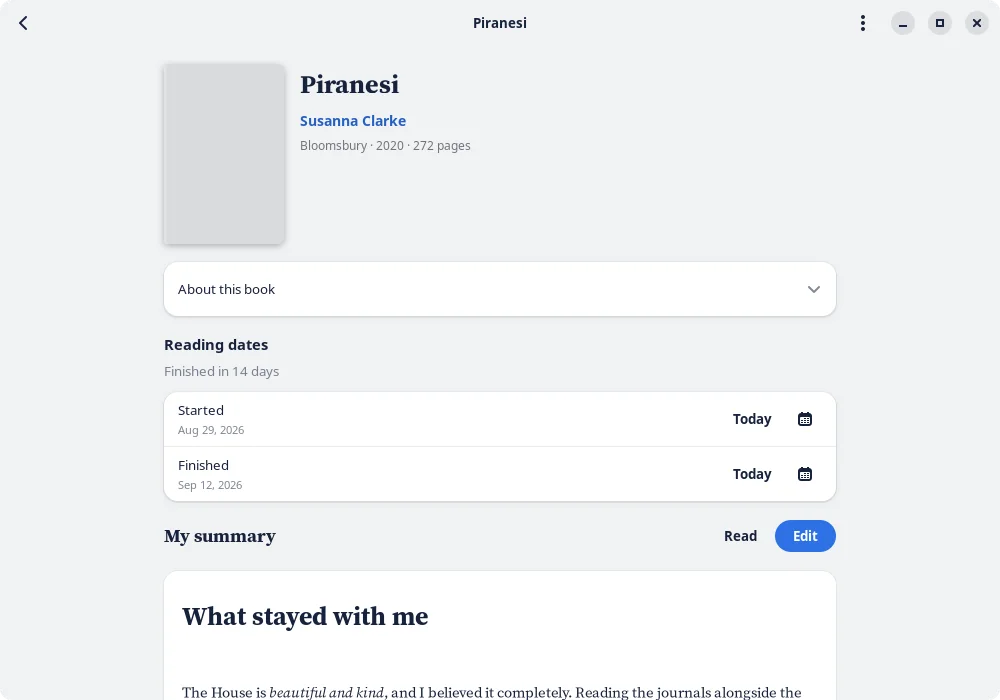
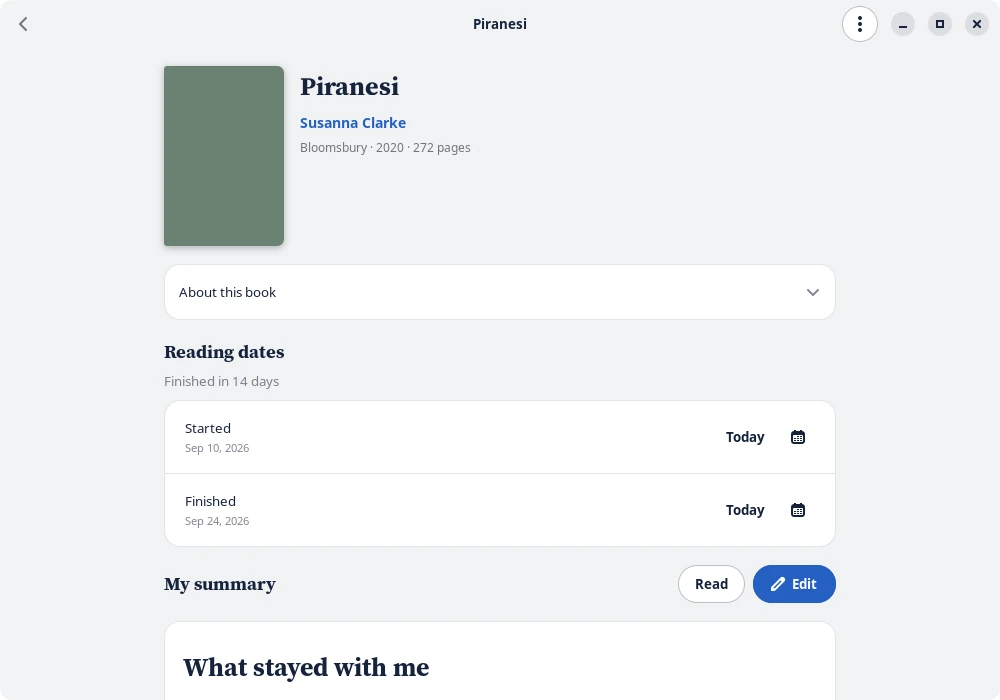
README and website: the new design, with new screenshots
All three apps now share the Linux layout and look, so the site and
README describe one design: the header with back, add, the three shelf
tabs, search and Settings; each shelf as a grid of book cards; and the
"Who's reading?" page. The per-system notes now say what stays native:
GNOME's window controls, the Windows title bar and keys, and the Mac's
menu bar, shortcuts and Settings window (Cmd-,). Nothing mentions a
sidebar or a left pane any more.

Features gain covers in search (and the edition that matched), lists
that keep going (Enter, Tab and Shift+Tab), room around the line you're
writing, and one design everywhere.

The twelve screenshots are new, as rounded-corner WebPs:
- Mac (CI run 38644768360): the Finished shelf, a book's page (dark),
  the writer and the reader (dark). The shelf is also the hero image.
- Windows (CI run 38644763954): the Finished shelf, adding a book with
  covers in the results, the writer (dark), and the reader in full
  screen. Its book page and windowed reader had stray focus rings, so
  windows-book.webp is replaced by windows-search.webp.
- Linux (shots.rs, on broadway): the Finished shelf (dark), a book's
  page, the writer and the reader (dark).

The install sections and the "0.9 is nearly here" note are unchanged.

diff --git a/site/index.html b/site/index.html
@@ -54,8 +54,8 @@
         <p class="small">Free and open source · No account, no ads, no tracking</p>
       </div>
       <figure class="hero-shot">
-        <img src="screenshots/mac-book.webp" width="1000" height="678"
-             alt="Bookshelf on a Mac: the Finished shelf on the left, with Piranesi selected, and its page on the right showing the cover, the reading dates and the start of the summary.">
+        <img src="screenshots/mac-shelf.webp" width="1000" height="681"
+             alt="Bookshelf on a Mac: the Finished shelf, with Reading, Finished and Eventually as tabs at the top, and the books finished in 2026 as a row of three cards, each with its cover, title, author, the date it was finished and the first lines of the summary.">
       </figure>
     </div>
     <div class="wrap">
@@ -68,21 +68,21 @@
   <!-- ===================================================== screenshots -->
   <section class="band" id="screenshots" aria-labelledby="screenshots-title">
     <div class="wrap">
-      <h2 id="screenshots-title">At home on your computer</h2>
-      <p class="intro">Bookshelf is a native app on each system, so it looks and feels like it belongs there. The shelves, the writing and the reading are the same everywhere. These screenshots use a made-up reader’s journal.</p>
+      <h2 id="screenshots-title">The same on every computer</h2>
+      <p class="intro">Bookshelf has one design on Linux, Windows and Mac: the same shelves of book cards, the same writer and the same reader. Underneath, each app is still native to its system, with the window controls, menus and keys you’re used to there. These screenshots use a made-up reader’s journal.</p>
 
       <div class="os" id="linux">
         <h3>Linux</h3>
-        <p class="os-note">Made with GTK&nbsp;4 and libadwaita, so it fits right in on GNOME.</p>
+        <p class="os-note">Made with GTK&nbsp;4 and libadwaita, with GNOME’s own window controls.</p>
         <div class="shots">
           <figure>
             <img src="screenshots/linux-shelf.webp" width="1000" height="700" loading="lazy" decoding="async"
-                 alt="Bookshelf on Linux in dark mode, showing the Finished shelf: books grouped under 2026, each with its author, the date it was finished, how many days it took, and the first lines of the summary.">
+                 alt="Bookshelf on Linux in dark mode, showing the Finished shelf: A Wizard of Earthsea, Piranesi and The Remains of the Day as three cards under 2026, each with its cover, author, the date it was finished, how many days it took, and the first lines of the summary.">
             <figcaption>The Finished shelf, grouped by year (dark mode)</figcaption>
           </figure>
           <figure>
             <img src="screenshots/linux-book.webp" width="1000" height="700" loading="lazy" decoding="async"
-                 alt="The page for Piranesi by Susanna Clarke on Linux: publisher, year and page count, a folded ‘About this book’ section, the started and finished dates with Today and calendar buttons, and the start of the summary.">
+                 alt="The page for Piranesi by Susanna Clarke on Linux: the cover, publisher, year and page count, a folded ‘About this book’ panel, the started and finished dates with Today and calendar buttons, and Read and Edit buttons above the summary.">
             <figcaption>A book’s page: details, reading dates and your summary</figcaption>
           </figure>
           <figure>
@@ -100,52 +100,52 @@
 
       <div class="os" id="windows">
         <h3>Windows</h3>
-        <p class="os-note">Made with WinUI&nbsp;3, like Windows&nbsp;11’s own apps. Works on Windows&nbsp;10 too.</p>
+        <p class="os-note">Made with WinUI&nbsp;3, with the Windows title bar and keyboard shortcuts. Works on Windows&nbsp;10 and&nbsp;11.</p>
         <div class="shots">
           <figure>
             <img src="screenshots/windows-shelf.webp" width="1030" height="781" loading="lazy" decoding="async"
-                 alt="Bookshelf on Windows showing the Finished shelf: a left pane with Reading, Finished and Eventually and how many books each holds, and books grouped by year with their dates and the first lines of each summary.">
-            <figcaption>The Finished shelf, with the shelves in the left pane</figcaption>
+                 alt="Bookshelf on Windows showing the Finished shelf: back and add buttons, the three shelf tabs, and search and Settings buttons along the top, then Dune and A Wizard of Earthsea as cards under 2026, with their dates and the first lines of each summary.">
+            <figcaption>The Finished shelf, with the shelf tabs, search and Settings at the top</figcaption>
           </figure>
           <figure>
-            <img src="screenshots/windows-book.webp" width="1030" height="781" loading="lazy" decoding="async"
-                 alt="The page for Dune by Frank Herbert on Windows: Edit and Read buttons, an ‘About this book’ section, the reading dates with calendars and Today buttons, and the summary below.">
-            <figcaption>A book’s page, with Edit and Read close at hand</figcaption>
+            <img src="screenshots/windows-search.webp" width="1030" height="781" loading="lazy" decoding="async"
+                 alt="Adding a book on Windows: a search for ‘le guin’ lists four books, each with a small cover beside it, its author and year. The Dispossessed also shows its subtitle, An Ambiguous Utopia.">
+            <figcaption>Adding a book: a cover beside each result, and subtitles too</figcaption>
           </figure>
           <figure>
             <img src="screenshots/windows-writer.webp" width="1030" height="781" loading="lazy" decoding="async"
-                 alt="The writing page on Windows in dark mode: a formatting bar with bold, italic, heading, quote, list and link buttons, above notes on To the Lighthouse with headings, a bulleted list and a quote.">
+                 alt="The writing page on Windows in dark mode: a formatting bar with bold, italic, heading, quote, list and link buttons, above notes on To the Lighthouse with headings, a bulleted list and a quote. The word count and ‘Saved’ sit at the bottom.">
             <figcaption>The writer, in dark mode</figcaption>
           </figure>
           <figure>
-            <img src="screenshots/windows-reader.webp" width="1030" height="781" loading="lazy" decoding="async"
-                 alt="The reading page on Windows: the summary of Dune set in a serif font, with a heading, a bulleted list and paragraphs.">
-            <figcaption>The reader, ready for full screen</figcaption>
+            <img src="screenshots/windows-reader.webp" width="1024" height="768" loading="lazy" decoding="async"
+                 alt="The reading page on Windows in full screen: the summary of Dune set in a serif font, with a heading, a bulleted list and paragraphs, and a note at the bottom saying how to leave full screen.">
+            <figcaption>The reader, in full screen</figcaption>
           </figure>
         </div>
       </div>
 
       <div class="os" id="mac">
         <h3>Mac</h3>
-        <p class="os-note">Made with SwiftUI, with the sidebar, menus and keyboard shortcuts you’d expect on a&nbsp;Mac.</p>
+        <p class="os-note">Made with SwiftUI, with the menu bar, keyboard shortcuts and Settings window (<kbd>⌘,</kbd>) you’d expect on a&nbsp;Mac.</p>
         <div class="shots">
           <figure>
-            <img src="screenshots/mac-shelf.webp" width="1000" height="675" loading="lazy" decoding="async"
-                 alt="Bookshelf on a Mac in dark mode: the sidebar with three shelves, and the Reading shelf with Middlemarch on day 4 and The Left Hand of Darkness on day 13.">
-            <figcaption>The Reading shelf, counting the days (dark mode)</figcaption>
+            <img src="screenshots/mac-shelf.webp" width="1000" height="681" loading="lazy" decoding="async"
+                 alt="Bookshelf on a Mac: the Finished shelf, with A Wizard of Earthsea, Piranesi and The Remains of the Day as a row of three cards under 2026, and two more under 2025, centred below.">
+            <figcaption>The Finished shelf: three to a row, with a short row centred</figcaption>
           </figure>
           <figure>
-            <img src="screenshots/mac-book.webp" width="1000" height="678" loading="lazy" decoding="async"
-                 alt="Bookshelf on a Mac: the Finished shelf with Piranesi selected, and its page beside it with the cover, the reading dates and the start of the summary.">
-            <figcaption>Your shelf and a book’s page, side by side</figcaption>
+            <img src="screenshots/mac-book.webp" width="1000" height="684" loading="lazy" decoding="async"
+                 alt="The page for Piranesi on a Mac in dark mode: the cover, publisher, year and page count, a folded ‘About this book’ panel, the reading dates with Today buttons, and Read and Edit buttons above the start of the summary.">
+            <figcaption>A book’s page, with Read and Edit close at hand (dark mode)</figcaption>
           </figure>
           <figure>
-            <img src="screenshots/mac-writer.webp" width="1000" height="678" loading="lazy" decoding="async"
-                 alt="The writing page on a Mac: a toolbar of formatting buttons above Markdown text with a heading, italic and bold words, and a numbered list.">
+            <img src="screenshots/mac-writer.webp" width="1000" height="681" loading="lazy" decoding="async"
+                 alt="The writing page on a Mac: a toolbar of formatting buttons above Markdown text with a heading, italic and bold words, and a numbered list. The word count and ‘Saved’ sit at the bottom.">
             <figcaption>The writer, with formatting in the toolbar and the menus</figcaption>
           </figure>
           <figure>
-            <img src="screenshots/mac-reader.webp" width="1000" height="675" loading="lazy" decoding="async"
+            <img src="screenshots/mac-reader.webp" width="1000" height="684" loading="lazy" decoding="async"
                  alt="The reading page on a Mac in dark mode: the summary of Piranesi with headings, a numbered list and a dividing line.">
             <figcaption>The reader (dark mode)</figcaption>
           </figure>
@@ -159,18 +159,21 @@
     <div class="wrap">
       <h2 id="features-title">What it does</h2>
       <ul class="features">
-        <li><h3>Three shelves</h3><p>Reading, Finished and Eventually. Finished books are grouped by year, with a count of this year’s.</p></li>
-        <li><h3>Add any book</h3><p>Search Open Library by title, author or ISBN. The cover and description come with it.</p></li>
+        <li><h3>Three shelves</h3><p>Reading, Finished and Eventually, each a grid of book cards with the cover, the dates and the start of your summary. Finished books are grouped by year, with a count of this year’s.</p></li>
+        <li><h3>Add any book</h3><p>Search Open Library by title, author or ISBN, with a small cover beside each result. You get the edition that matched, so its subtitle and the right cover come with it.</p></li>
         <li><h3>Reading dates</h3><p>Note when you started and finished, and see how many days it took. A book’s dates decide its shelf.</p></li>
         <li><h3>A calm writer</h3><p>One column of text and nothing else. Markdown formatting, with the marks dimmed, and a few gentle prompts on an empty page.</p></li>
+        <li><h3>Lists that keep going</h3><p><kbd>Enter</kbd> (<kbd>Return</kbd> on a Mac) starts the next item, and on an empty item it ends the list. <kbd>Tab</kbd> and <kbd>Shift+Tab</kbd> nest an item and bring it back out.</p></li>
+        <li><h3>Room to write</h3><p>As you type, about three lines stay clear above and below the line you’re on, so you’re never writing at the edge of the window.</p></li>
         <li><h3>Focus mode and full screen</h3><p>Everything but the sentence you’re writing fades back, and the line stays centred like a typewriter.</p></li>
         <li><h3>Saves as you type</h3><p>No save button to remember. If saving ever fails, Bookshelf keeps your words safe instead of losing them.</p></li>
         <li><h3>A reader for your summaries</h3><p>Read what you wrote, nicely set, with nothing around it.</p></li>
         <li><h3>Search everything</h3><p>Titles, authors and every word you’ve written, across all three shelves at once.</p></li>
         <li><h3>Read it again</h3><p>Start a fresh entry for a favourite, with its own dates and summary. The first one stays as it was.</p></li>
-        <li><h3>A profile for everyone</h3><p>Everyone who reads in your home can have their own shelves, summaries and settings.</p></li>
+        <li><h3>A profile for everyone</h3><p>Everyone who reads in your home can have their own shelves, summaries and settings. Go back from the shelves to <q>Who’s reading?</q> to switch.</p></li>
         <li><h3>Make it yours</h3><p>Light or dark, eight accent colors or any you like, and your choice of font, text size, line spacing and page width.</p></li>
         <li><h3>Backups and export</h3><p>A daily copy of your journal, kept wherever you like. Export every summary as a plain Markdown file.</p></li>
+        <li><h3>One design everywhere</h3><p>The same shelves, writer and reader on Linux, Windows and Mac, so moving between computers feels familiar.</p></li>
       </ul>
       <p class="more">Every feature is explained in the <a href="https://github.com/E36lewis/bookshelf/blob/main/MANUAL.md">user manual</a>, which is also built into the app (<kbd>F1</kbd> on Linux and Windows, <kbd>⌘?</kbd> on a Mac).</p>
     </div>

diff --git a/README.md b/README.md
@@ -16,36 +16,39 @@
   <a href="#install">Install</a>
 </p>
 
-Bookshelf keeps three shelves (Reading, Finished and Eventually). Add books from [Open Library](https://openlibrary.org/), note when you started and finished each one, and write your own summary in a calm Markdown writer with focus mode, full screen and autosave. Your journal stays on your computer: there's no account, and nothing you write is ever sent anywhere.
+Bookshelf keeps three shelves (Reading, Finished and Eventually), each a grid of book cards. Add books from [Open Library](https://openlibrary.org/), note when you started and finished each one, and write your own summary in a calm Markdown writer with focus mode, full screen and autosave. Your journal stays on your computer: there's no account, and nothing you write is ever sent anywhere.
 
 > [!NOTE]
 > **The first release, 0.9, is nearly here.** If [the releases page](https://github.com/E36lewis/bookshelf/releases/latest) is still empty, please check back in a few days. 0.9 means "nearly 1.0": everything is in place, and the Mac app is still being tested by real readers before 1.0.
 
 ## Screenshots
 
-Bookshelf is a native app on each system: GTK 4 and libadwaita on Linux, WinUI 3 on Windows, SwiftUI on the Mac. All three share one Rust core. These screenshots use a made-up reader's journal; click any of them to see it full size.
+Bookshelf has one design on all three systems: a header with back, add, the three shelf tabs, search and Settings; each shelf as a grid of book cards; and the same writer and reader. Underneath, each is a native app: GTK 4 and libadwaita on Linux, with GNOME's window controls; WinUI 3 on Windows, with its title bar and keys; SwiftUI on the Mac, with its menu bar, keyboard shortcuts and Settings window. All three share one Rust core. These screenshots use a made-up reader's journal; click any of them to see it full size.
 
 | | Linux | Windows | Mac |
 |---|---|---|---|
-| **Shelf** | ![Bookshelf on Linux in dark mode, showing the Finished shelf: books grouped by year with their dates and the first lines of each summary](site/screenshots/linux-shelf.webp) | ![Bookshelf on Windows showing the Finished shelf, with Reading, Finished and Eventually in the left pane and books grouped by year](site/screenshots/windows-shelf.webp) | ![Bookshelf on a Mac in dark mode: the sidebar with three shelves, and the Reading shelf with two books and the day of reading each is on](site/screenshots/mac-shelf.webp) |
-| **A book's page** | ![The page for Piranesi on Linux: details, an About this book section, the reading dates, and the start of the summary](site/screenshots/linux-book.webp) | ![The page for Dune on Windows: Edit and Read buttons, the reading dates with calendars, and the summary](site/screenshots/windows-book.webp) | ![Bookshelf on a Mac: the Finished shelf with Piranesi selected, and its page beside it with the cover, reading dates and summary](site/screenshots/mac-book.webp) |
+| **Shelf** | ![Bookshelf on Linux in dark mode, showing the Finished shelf: three book cards under 2026, each with its cover, author, dates and the first lines of the summary](site/screenshots/linux-shelf.webp) | ![Bookshelf on Windows showing the Finished shelf: the shelf tabs, search and Settings at the top, and books as cards grouped by year](site/screenshots/windows-shelf.webp) | ![Bookshelf on a Mac showing the Finished shelf: a row of three book cards under 2026, and two more under 2025, centred](site/screenshots/mac-shelf.webp) |
+| **Books** | ![The page for Piranesi on Linux: the cover, details, an About this book panel, the reading dates, and Read and Edit buttons above the summary](site/screenshots/linux-book.webp) | ![Adding a book on Windows: search results for le guin, each with a small cover, and The Dispossessed with its subtitle](site/screenshots/windows-search.webp) | ![The page for Piranesi on a Mac in dark mode: the cover, details, the reading dates, and Read and Edit buttons above the summary](site/screenshots/mac-book.webp) |
 | **Writing** | ![The writing page on Linux: a formatting bar above one column of Markdown text with dimmed marks](site/screenshots/linux-writer.webp) | ![The writing page on Windows in dark mode: a formatting bar above Markdown notes with headings, a list and a quote](site/screenshots/windows-writer.webp) | ![The writing page on a Mac: a formatting toolbar above Markdown text with a heading and a numbered list](site/screenshots/mac-writer.webp) |
-| **Reading** | ![The reading page on Linux in dark mode: the summary of Piranesi set in a serif font](site/screenshots/linux-reader.webp) | ![The reading page on Windows: the summary of Dune set in a serif font, with a list](site/screenshots/windows-reader.webp) | ![The reading page on a Mac in dark mode: the summary of Piranesi with headings and a numbered list](site/screenshots/mac-reader.webp) |
+| **Reading** | ![The reading page on Linux in dark mode: the summary of Piranesi set in a serif font](site/screenshots/linux-reader.webp) | ![The reading page on Windows in full screen: the summary of Dune set in a serif font, with a list](site/screenshots/windows-reader.webp) | ![The reading page on a Mac in dark mode: the summary of Piranesi with headings and a numbered list](site/screenshots/mac-reader.webp) |
 
 ## Features
 
-- **Three shelves**: Reading, Finished (grouped by year, with this year's count) and Eventually.
-- **Add any book** from Open Library by title, author or ISBN. The cover and description come with it.
+- **Three shelves**: Reading, Finished (grouped by year, with this year's count) and Eventually, each a grid of book cards with the cover, the dates and the start of your summary.
+- **Add any book** from Open Library by title, author or ISBN, with a small cover beside each result. You get the edition that matched, so its subtitle and the right cover come with it.
 - **Reading dates**: when you started and finished, and how many days it took. A book's dates decide its shelf.
 - **A calm writer**: one column of text, Markdown with the marks dimmed, and gentle prompts on an empty page.
+- **Lists that keep going**: Enter (Return on a Mac) starts the next item and, on an empty item, ends the list. Tab and Shift+Tab nest an item and bring it back out.
+- **Room to write**: as you type, about three lines stay clear above and below the line you're on.
 - **Focus mode** (typewriter-style) and **full screen**.
 - **Saves as you type.** If saving ever fails, your words are kept safe, never thrown away.
 - **A reader** that shows your summary nicely set, with nothing around it.
 - **Search** titles, authors and everything you've written, across all three shelves.
 - **Read it again**: a fresh entry for a favourite, with its own dates and summary.
-- **A profile for everyone** who reads in your home.
+- **A profile for everyone** who reads in your home. Go back from the shelves to *Who's reading?* to switch.
 - **Make it yours**: light or dark, eight accent colors or any you like, and your choice of font, text size, line spacing and page width.
 - **Daily backups** (the last seven, kept wherever you like) and **export** of every summary as a Markdown file.
+- **One design everywhere**: the same shelves, writer and reader on Linux, Windows and Mac.
 
 The [user manual](MANUAL.md) explains everything. It's also built into the app: <kbd>F1</kbd> on Linux and Windows, <kbd>⌘?</kbd> on a Mac.
 
